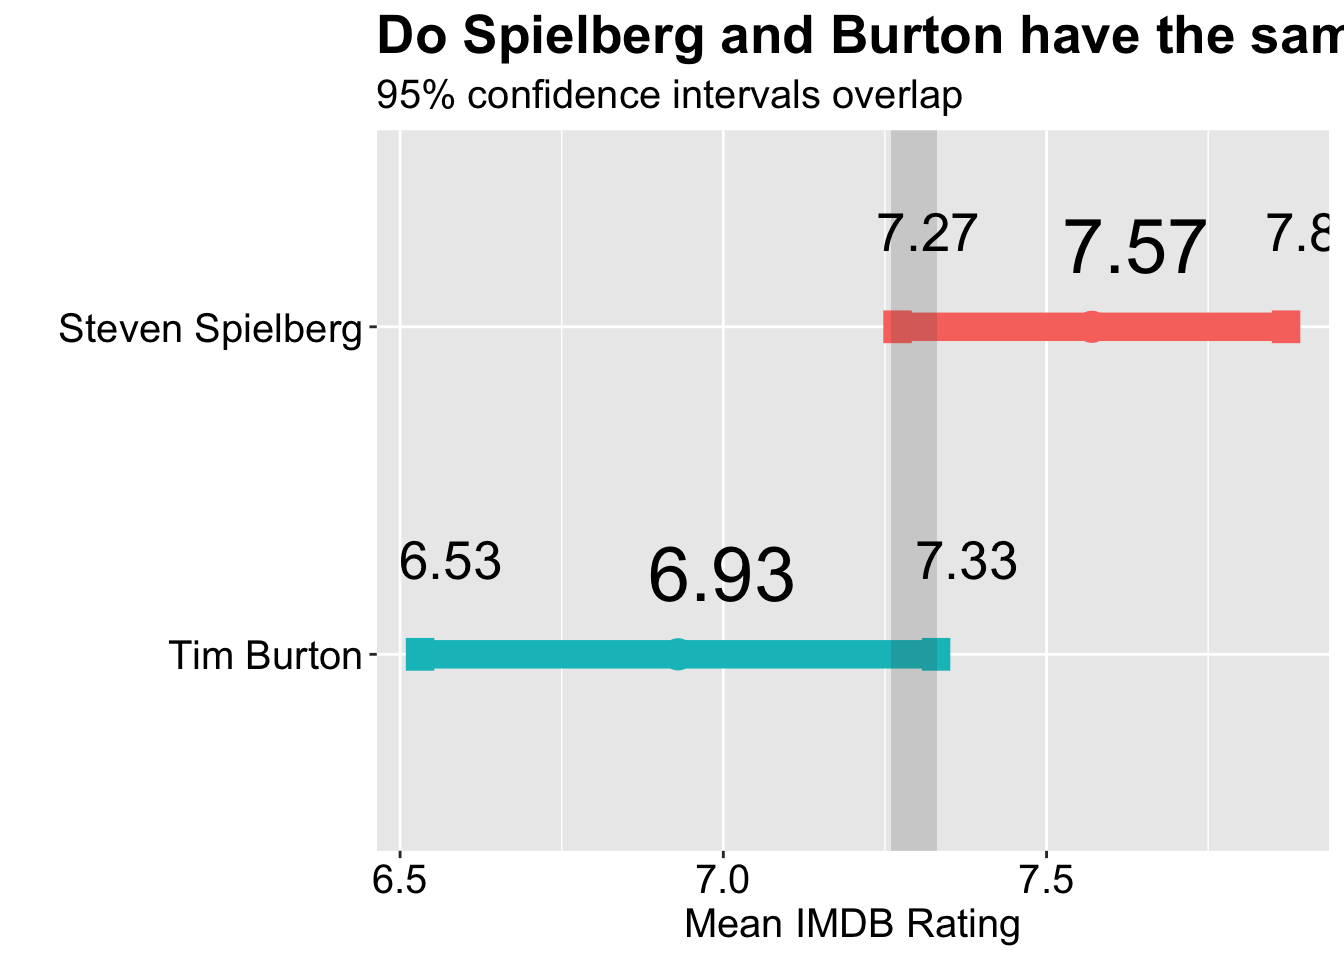
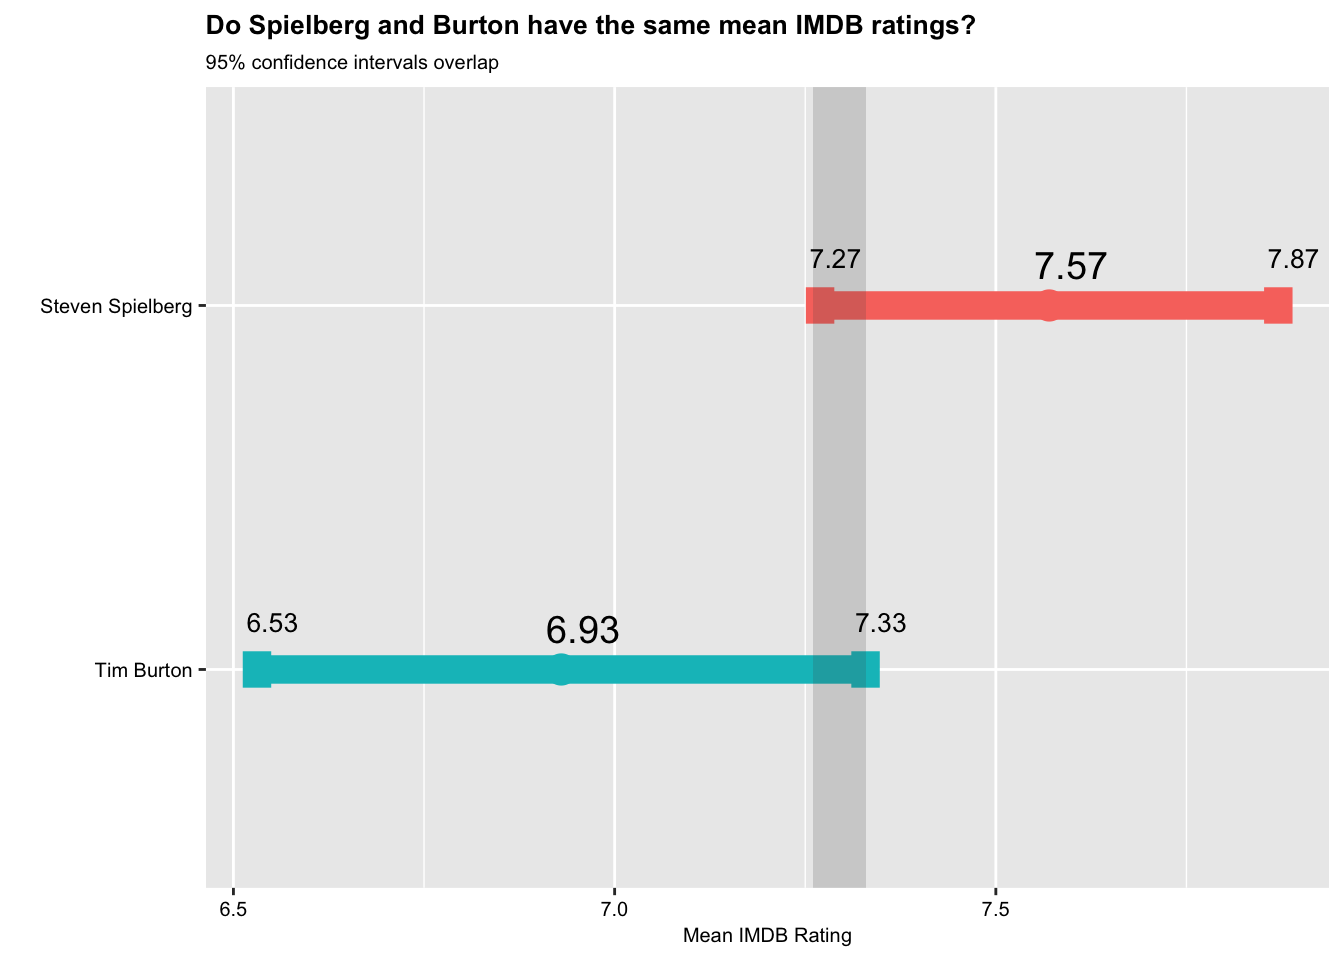
changed the font size

Changed region(s): [[0.0312, 0.0, 1.0, 1.0], [0.4062, 0.3125, 0.4688, 0.3438], [0.5312, 0.3125, 0.5625, 0.3438]]

diff --git a/public/blogs/blog6/index.html b/public/blogs/blog6/index.html
@@ -160,29 +160,29 @@ ggplot(Comp_2director, aes(x = mean_rating,
         geom_text(aes(label = round(lower_ci, 2), x = lower_ci),
             hjust = 0.2,       
             vjust = -2,        
-            size  = 7,         
+            size  = 3.5,         
             color = &quot;black&quot;) + 
   
   
         geom_text(aes(label = round(upper_ci, 2), x = upper_ci), 
             hjust = 0.2,       
             vjust = -2,        
-            size  = 7,         
+            size  = 3.5,         
             color = &quot;black&quot;)+ 
   
         geom_text(aes(label = round(mean_rating, 2), x = mean_rating), 
             hjust = 0.2,       
             vjust = -1,      
-            size  = 10,         
+            size  = 5,         
             color = &quot;black&quot;)+   
   
-        theme(plot.title=element_text(face=&quot;bold&quot;,size=20),
-              plot.subtitle=element_text(size=15),
-              axis.title = element_text(size = 15),
-              axis.text.y.left = element_text(size = 15, color = &quot;black&quot;),
-              axis.text.x.bottom = element_text(size = 15, color = &quot;black&quot;))</code></pre>
+        theme(plot.title=element_text(face=&quot;bold&quot;,size=10),
+              plot.subtitle=element_text(size=7.5),
+              axis.title = element_text(size = 7.5),
+              axis.text.y.left = element_text(size = 7.5, color = &quot;black&quot;),
+              axis.text.x.bottom = element_text(size = 7.5, color = &quot;black&quot;))</code></pre>
 <p><img src="/blogs/blog6_files/figure-html/unnamed-chunk-1-1.png" width="672" />
-##Now, we are doing a hypothesis test
+Now, we are doing a hypothesis test
 H0: mean rating of Steven = mean rating of Tim
 H1: mean rating of Steven ≠ mean rating of Tim</p>
 <p>Conducting a t-test:</p>

diff --git a/content/blogs/blog6.html b/content/blogs/blog6.html
@@ -82,29 +82,29 @@ ggplot(Comp_2director, aes(x = mean_rating,
         geom_text(aes(label = round(lower_ci, 2), x = lower_ci),
             hjust = 0.2,       
             vjust = -2,        
-            size  = 7,         
+            size  = 3.5,         
             color = &quot;black&quot;) + 
   
   
         geom_text(aes(label = round(upper_ci, 2), x = upper_ci), 
             hjust = 0.2,       
             vjust = -2,        
-            size  = 7,         
+            size  = 3.5,         
             color = &quot;black&quot;)+ 
   
         geom_text(aes(label = round(mean_rating, 2), x = mean_rating), 
             hjust = 0.2,       
             vjust = -1,      
-            size  = 10,         
+            size  = 5,         
             color = &quot;black&quot;)+   
   
-        theme(plot.title=element_text(face=&quot;bold&quot;,size=20),
-              plot.subtitle=element_text(size=15),
-              axis.title = element_text(size = 15),
-              axis.text.y.left = element_text(size = 15, color = &quot;black&quot;),
-              axis.text.x.bottom = element_text(size = 15, color = &quot;black&quot;))</code></pre>
+        theme(plot.title=element_text(face=&quot;bold&quot;,size=10),
+              plot.subtitle=element_text(size=7.5),
+              axis.title = element_text(size = 7.5),
+              axis.text.y.left = element_text(size = 7.5, color = &quot;black&quot;),
+              axis.text.x.bottom = element_text(size = 7.5, color = &quot;black&quot;))</code></pre>
 <p><img src="/blogs/blog6_files/figure-html/unnamed-chunk-1-1.png" width="672" />
-##Now, we are doing a hypothesis test
+Now, we are doing a hypothesis test
 H0: mean rating of Steven = mean rating of Tim
 H1: mean rating of Steven ≠ mean rating of Tim</p>
 <p>Conducting a t-test:</p>
